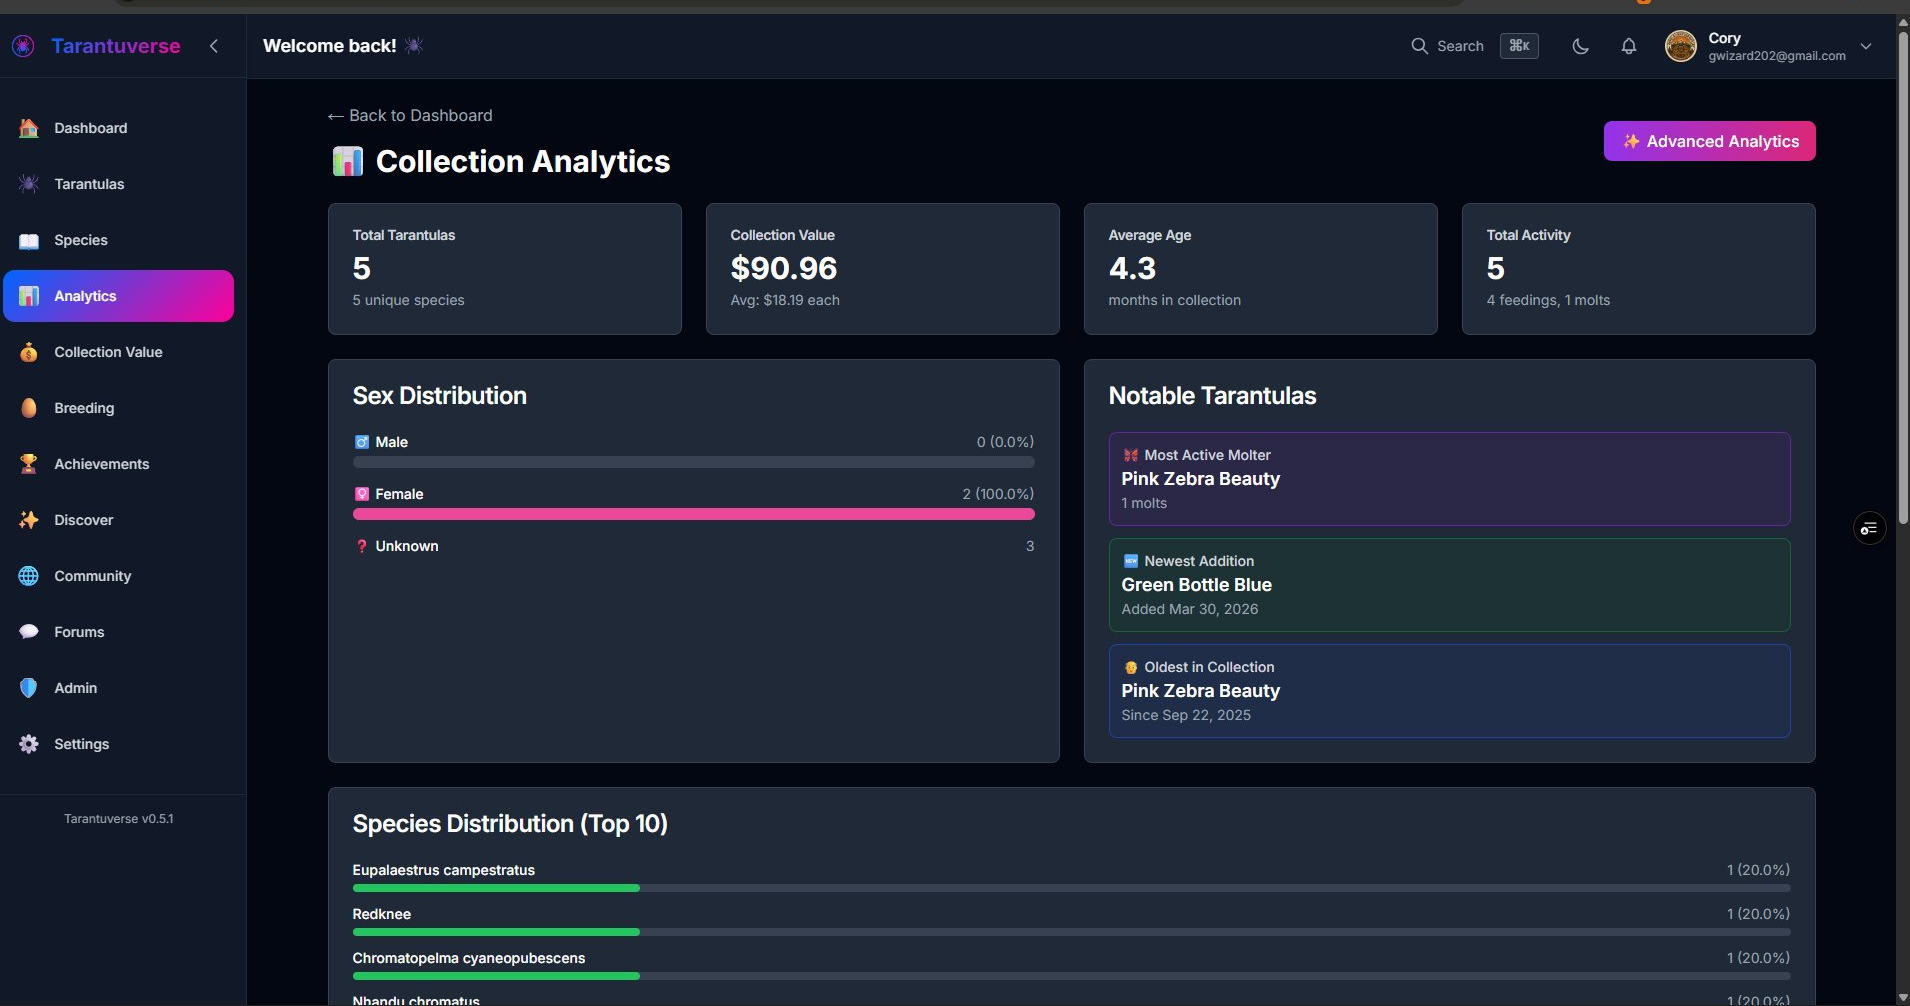
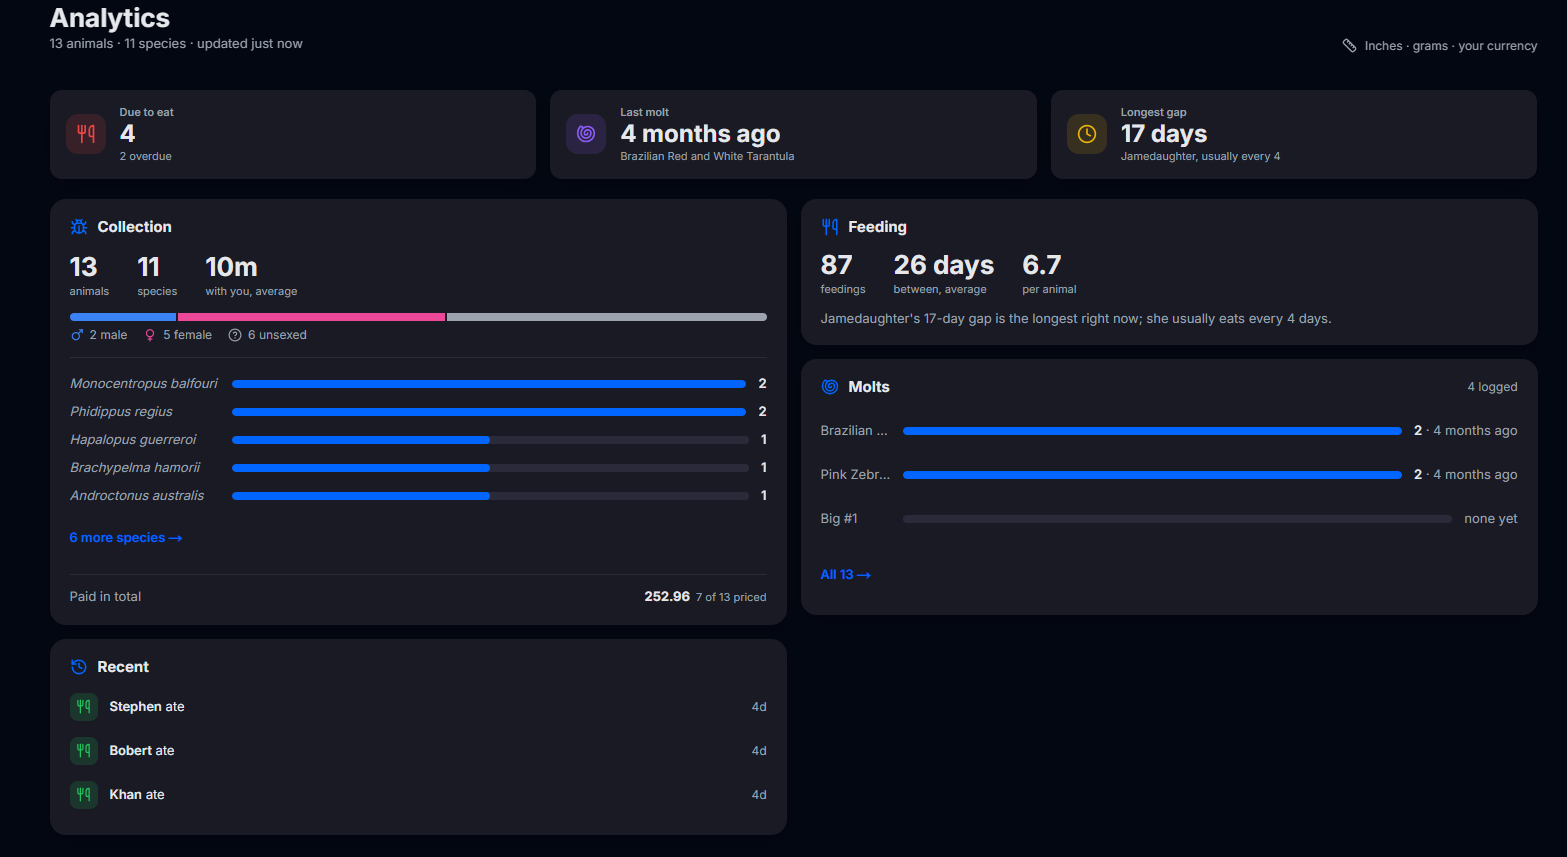
Landing, pricing and features pages: recent features, honest claims, new analytics screenshot

diff --git a/apps/web/src/app/page.tsx b/apps/web/src/app/page.tsx
@@ -469,7 +469,7 @@ export default function Home() {
               </div>
               <div className="flex-1 bg-dark-50 rounded px-3 py-0.5 text-xs text-gray-500 text-center">tarantuverse.com/dashboard/analytics</div>
             </div>
-            <img src="/screenshots/analytics.png" alt="Collection analytics showing sex distribution, species breakdown, and notable tarantulas" className="w-full h-auto" />
+            <img src="/screenshots/analytics.png" alt="Analytics page showing who is due to eat, the last molt, the longest feeding gap, the collection by species and sex, feeding summary and molts per animal" className="w-full h-auto" />
           </div>
         </div>
       </section>
@@ -663,10 +663,11 @@ export default function Home() {
               <div className="flex items-start gap-4">
                 <div className="w-12 h-12 bg-amber-500/10 border border-amber-500/30 rounded-xl flex items-center justify-center text-2xl flex-shrink-0">📚</div>
                 <div>
-                  <h3 className="text-lg font-bold mb-2 text-gray-100">11 Feeder Species, Pre-Seeded</h3>
+                  <h3 className="text-lg font-bold mb-2 text-gray-100">20 Feeder Species, Ready to Pick</h3>
                   <p className="text-gray-300 text-sm leading-relaxed">
-                    Crickets (banded & house), dubias, red runners, discoids, superworms,
-                    mealworms, hornworms, BSFL, and isopods — all with care defaults baked in.
+                    Crickets, dubias, red runners, discoids, lobster roaches, superworms,
+                    mealworms, waxworms, silkworms, hornworms, BSFL, fruit flies, springtails
+                    and isopods — each with care notes to start from.
                   </p>
                 </div>
               </div>
